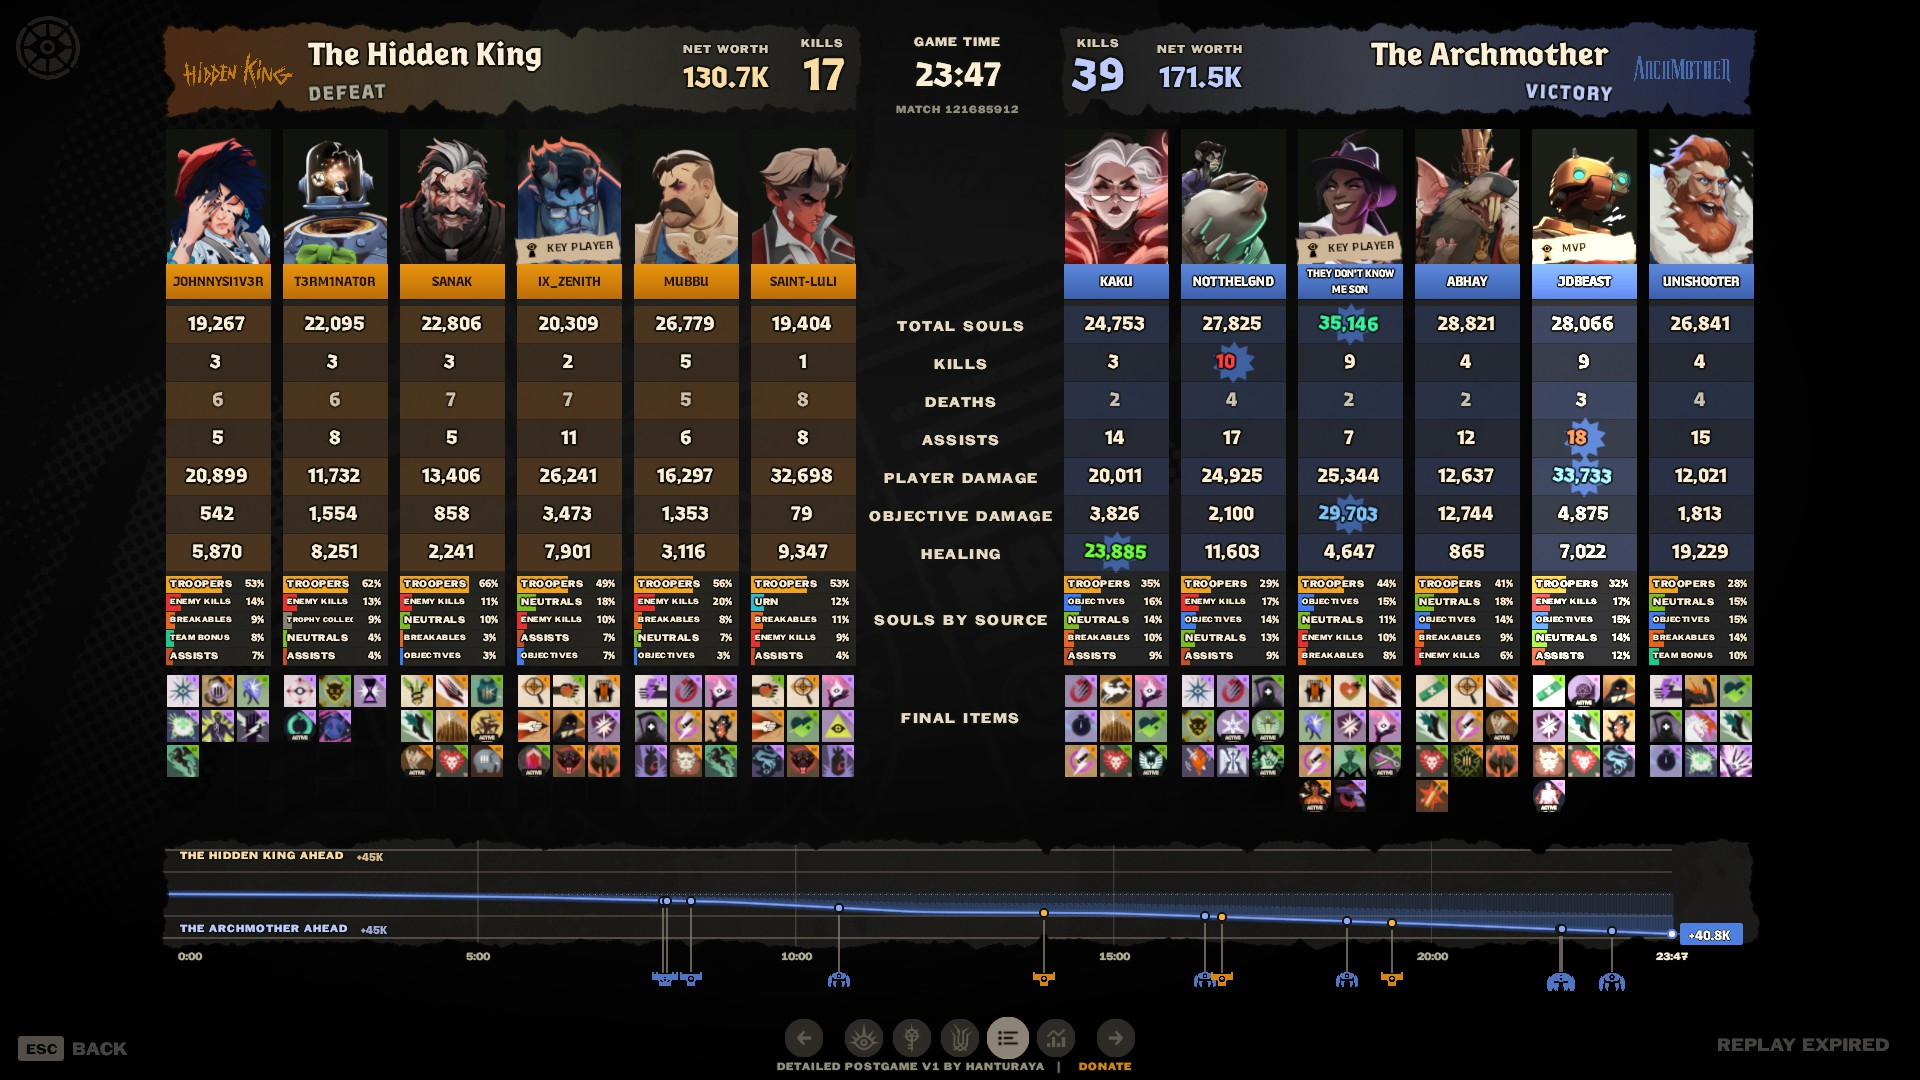
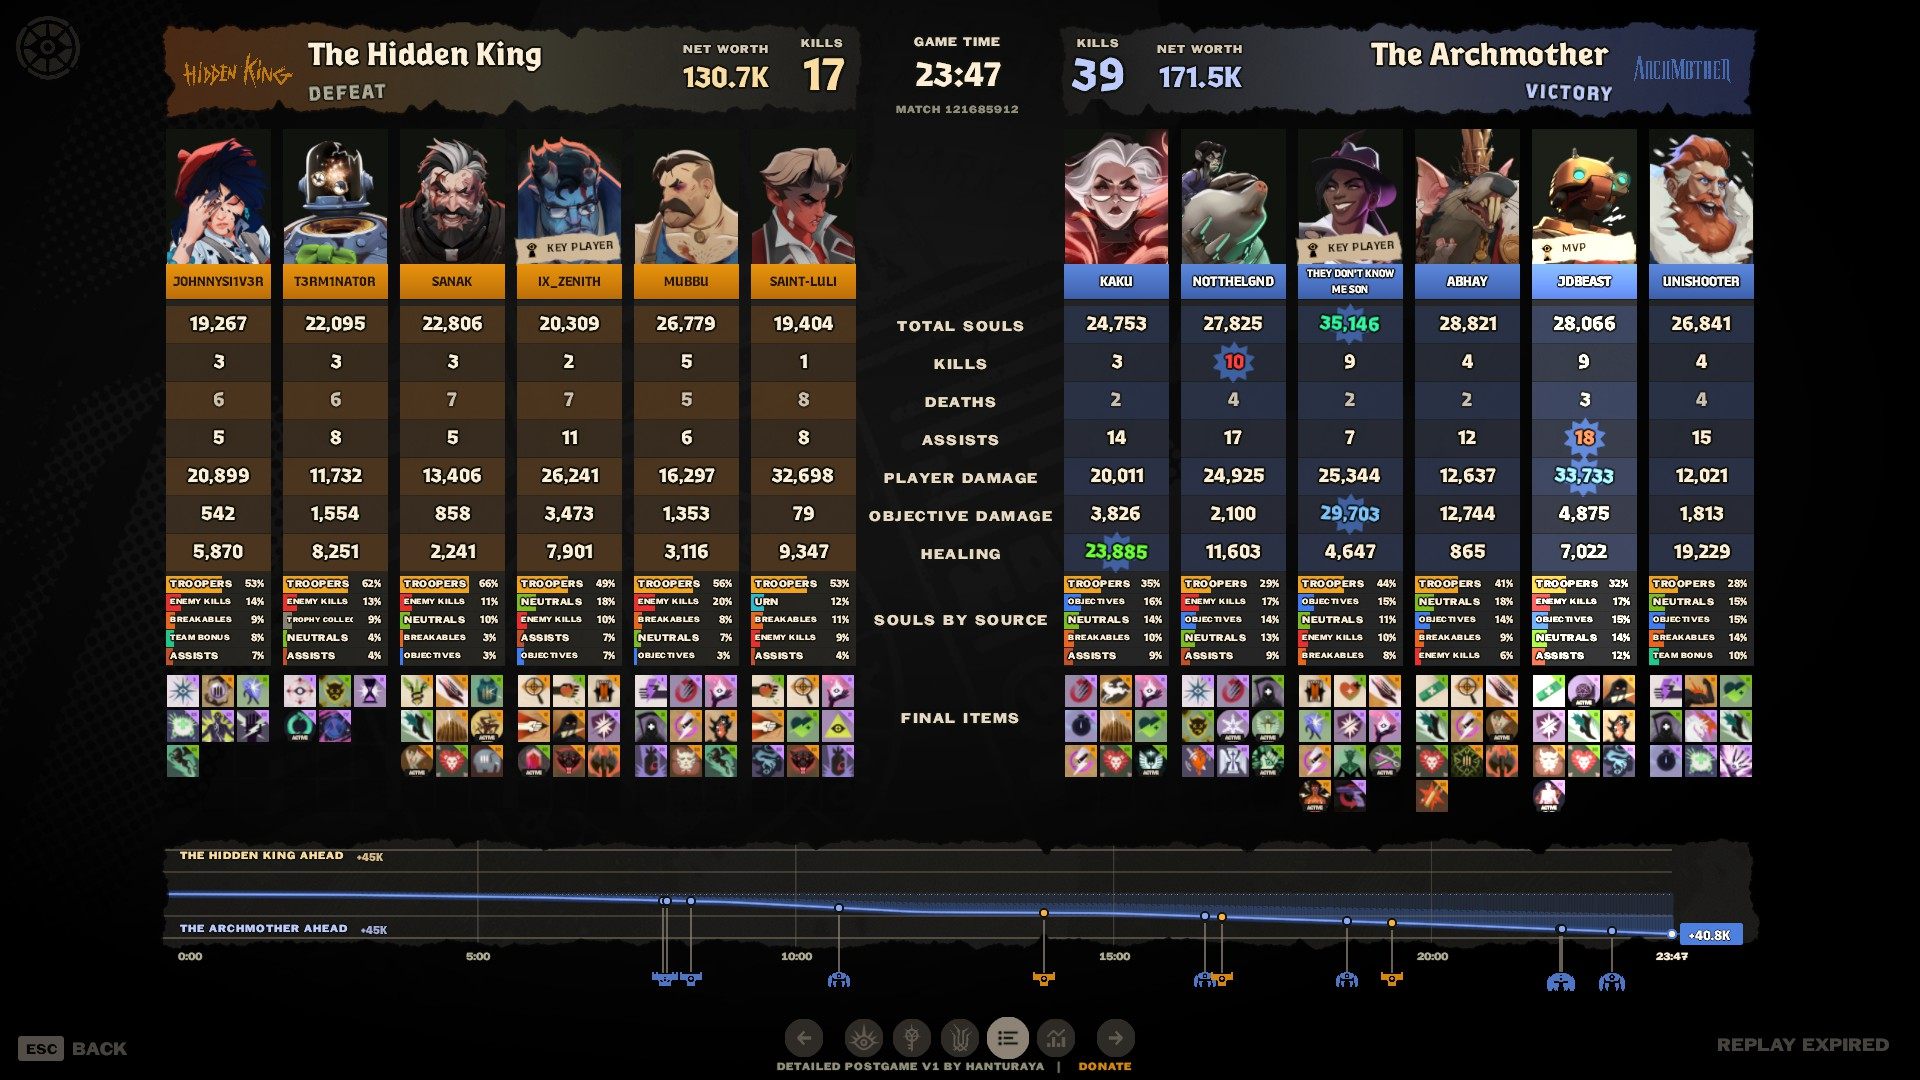
postgame board: best-value numbers centred in their burst again (drop the cell shrink rules); promo re-rendered

diff --git a/detailed_postgame/panorama/styles/detailed_postgame/pg_board.css b/detailed_postgame/panorama/styles/detailed_postgame/pg_board.css
@@ -507,10 +507,6 @@
 	horizontal-align: center;
 	vertical-align: center;
 	text-align: center;
-	/* a 7-digit value must stay inside the 105 px cell */
-	max-width: 101px;
-	white-space: nowrap;
-	text-overflow: shrink;
 	font-family: VALVEOracle, Reaver, sans-serif;
 	font-size: 21px;
 	font-weight: bold;
@@ -537,7 +533,7 @@
 .NSCell.NSBest .NSCellValue
 {
 	min-width: 42px;
-	max-width: 97px; /* 105 px cell less the 2 x 3 px padding and a margin, so the box fits either box model */
+	/* no max-width, nowrap or text-overflow on these labels: they put the number small and left of its burst (user, live 2026-11-13) */
 	padding: 8px 3px;
 	background-size: 42px 42px;
 	background-repeat: no-repeat;

diff --git a/observer_hud/panorama/styles/observer_hud/pg_board.css b/observer_hud/panorama/styles/observer_hud/pg_board.css
@@ -490,10 +490,6 @@
 	horizontal-align: center;
 	vertical-align: center;
 	text-align: center;
-	/* a 7-digit value must stay inside the 105 px cell */
-	max-width: 101px;
-	white-space: nowrap;
-	text-overflow: shrink;
 	font-family: VALVEOracle, Reaver, sans-serif;
 	font-size: 21px;
 	font-weight: bold;
@@ -520,7 +516,7 @@
 .NSCell.NSBest .NSCellValue
 {
 	min-width: 42px;
-	max-width: 97px; /* 105 px cell less the 2 x 3 px padding and a margin, so the box fits either box model */
+	/* no max-width, nowrap or text-overflow on these labels: they put the number small and left of its burst (user, live 2026-11-13) */
 	padding: 8px 3px;
 	background-size: 42px 42px;
 	background-repeat: no-repeat;
